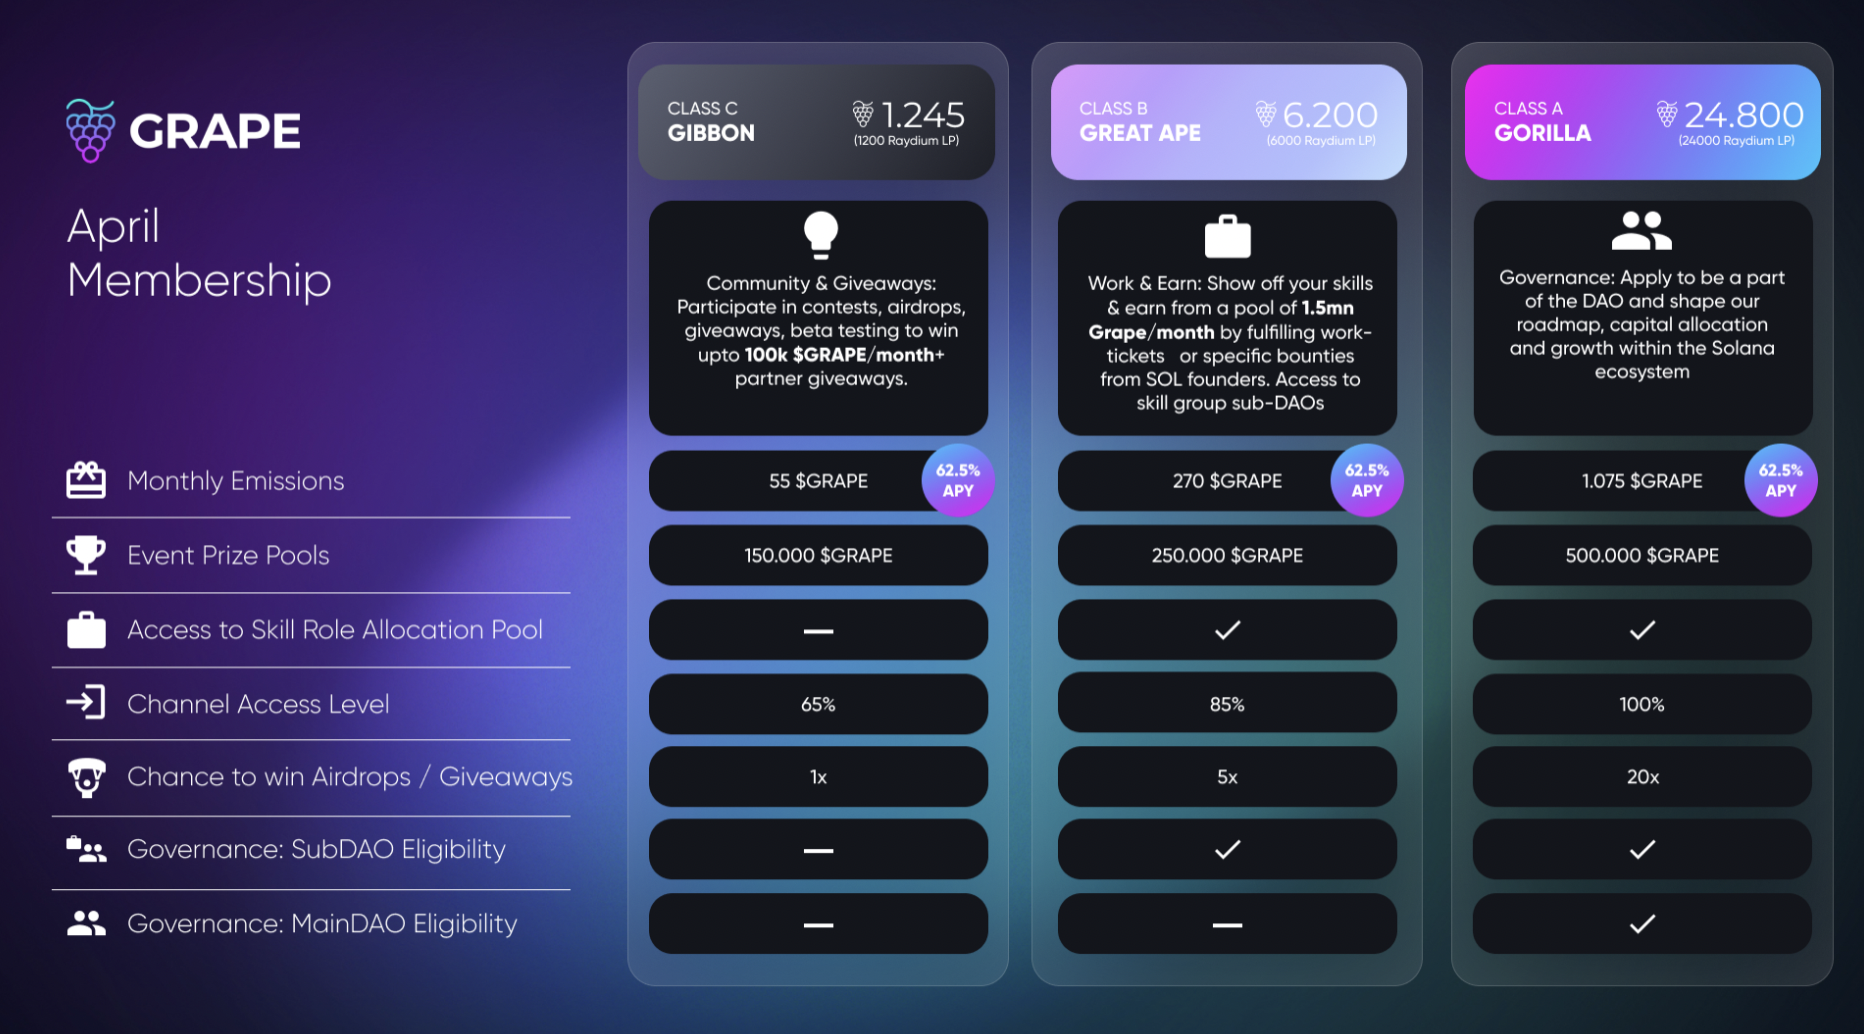
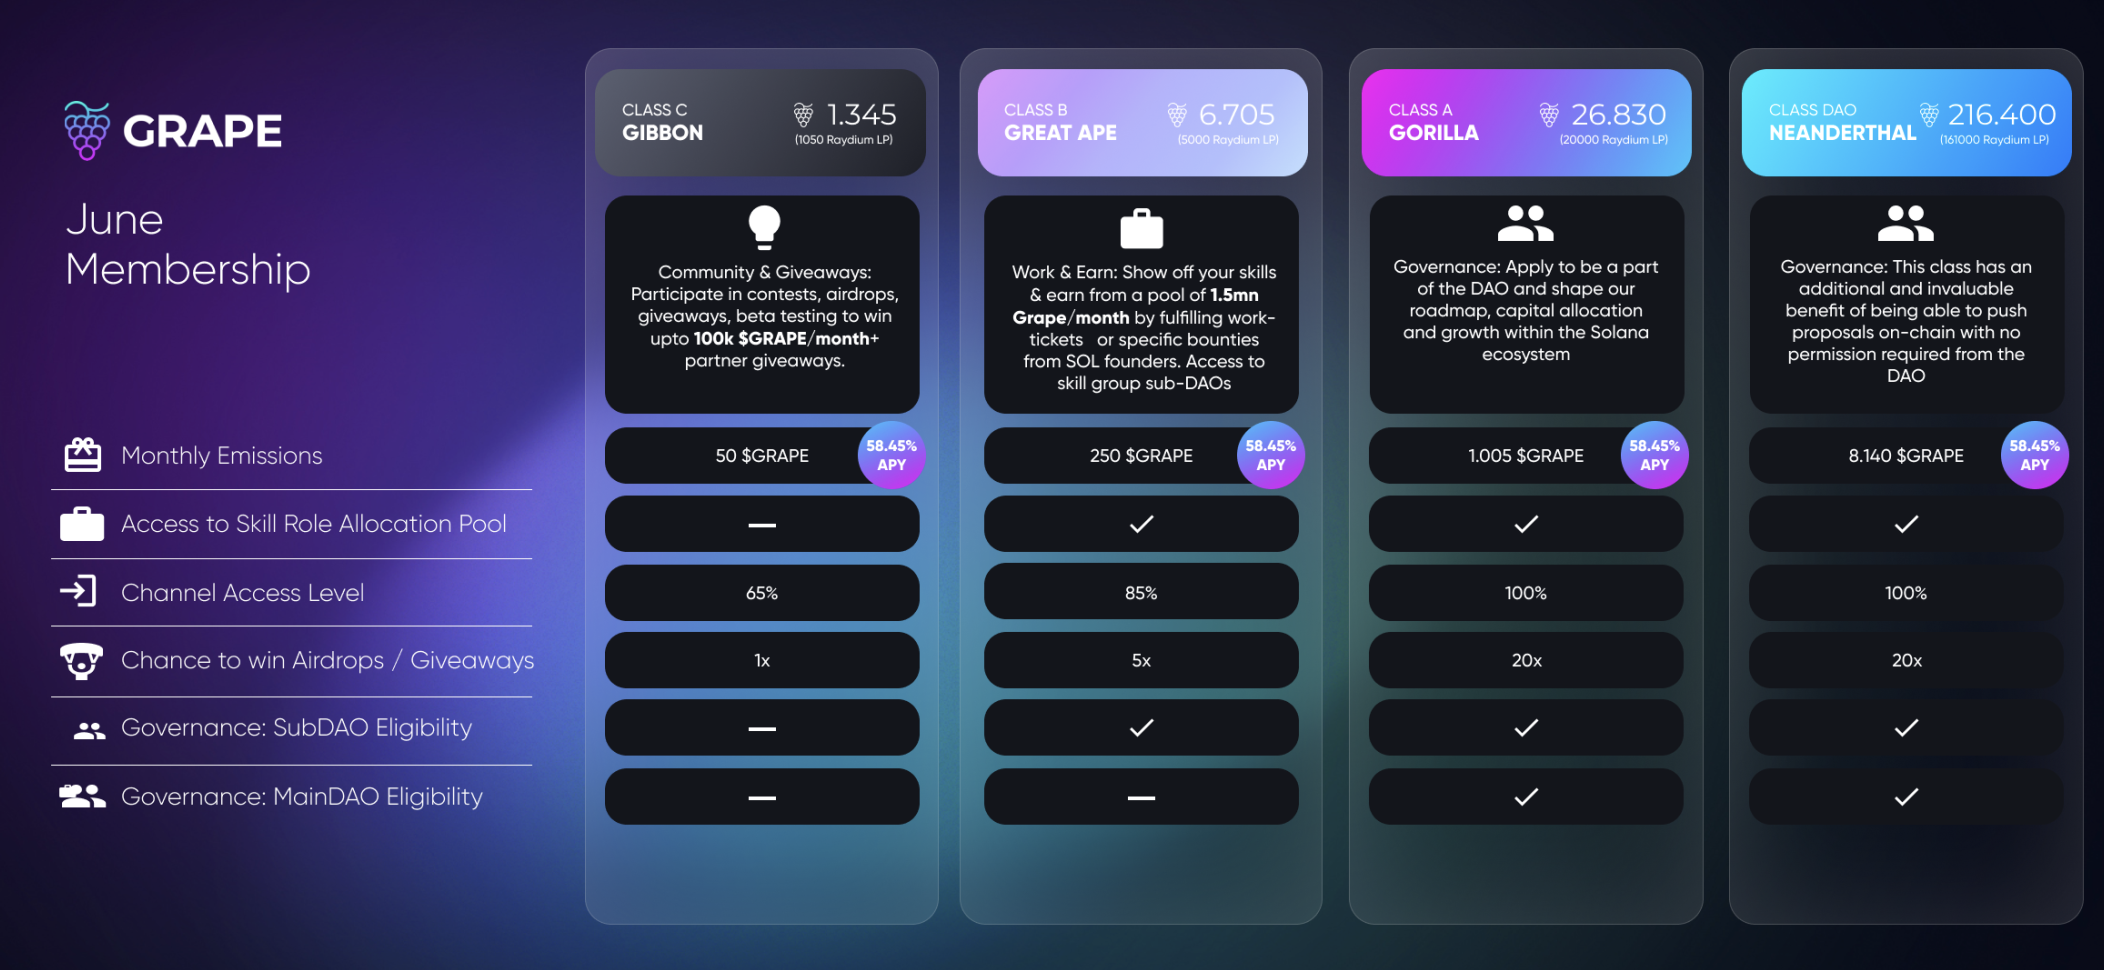
GitBook: [#119] No subject

diff --git a/grape-community/get-involved/membership-classes.md b/grape-community/get-involved/membership-classes.md
@@ -4,7 +4,7 @@ _As explained under  <mark style="color:purple;">****</mark>_ [_<mark style="col
 
 ### **Class C - Gibbon**
 
-_1,245 $GRAPE or 1,100 Raydium LP Tokens_
+_1,345 $GRAPE or 1,050 Raydium LP Tokens_
 
 * Access to priority channels such as DAO, Solana NFTS, and much more&#x20;
 * Chatting in Grape Community Channels&#x20;
@@ -20,7 +20,7 @@ Membership requirements and emissions have been updated (see values above or in 
 
 ### **Class B - Great Ape**
 
-_6,200 $GRAPE or 5,500 LP Tokens_
+_6,705 $GRAPE or 5,000 LP Tokens_
 
 * Access to contests and events! 'Higher contest and events prize payouts of up to 250,000 every month! Class B members' price pools are 1/2 of Class A members' prize pools.
 * Access to AMAs and Q\&A chat&#x20;
@@ -37,7 +37,7 @@ Membership requirements and emissions have been updated (see values above or in 
 
 ### **Class A - Gorilla**
 
-_24,800 $GRAPE or 21,000 LP Tokens_
+_26,830 $GRAPE or 20,000 LP Tokens_
 
 * Application to the DAO! The DAO decides everything around the GRAPE emissions, partnerships, and incubator applications. This is the highest level of involvement in the Solana ecosystem&#x20;
 * Get on the stage! Access to AMAs and join the conversation during Q\&A&#x20;

diff --git a/grape-community/get-involved/README.md b/grape-community/get-involved/README.md
@@ -18,7 +18,7 @@ Grape Membership: A way to get entertained, learn, and network **Crypto-Style**!
 * Contests and events with $GRAPE prizes.
 * Guaranteed monthly emissions based on your Class.
 
-![These numbers reflect the necessary amount of $GRAPE to keep your membership next month since the first payout happens only after a full month of membership.](<../../.gitbook/assets/image (3).png>)
+![These numbers reflect the necessary amount of $GRAPE to keep your membership next month since the first payout happens only after a full month of membership.](<../../.gitbook/assets/image (5).png>)
 
 Based on the current emission schedule, the inflation expected in 2022 from Community Emissions is the following:
 

diff --git a/grape-agency-services/community-services.md b/grape-agency-services/community-services.md
@@ -1,6 +1,6 @@
 # Community Services
 
-![](<../.gitbook/assets/image (5) (1).png>)
+![](<../.gitbook/assets/image (5) (1) (1).png>)
 
 We are proud to be the center of excellence in the Solana ecosystem. We are even prouder of our community’s inclusivity, diversity, and ethos!
 

diff --git a/quick-start-and-faq/README.md b/quick-start-and-faq/README.md
@@ -135,4 +135,4 @@ Please be aware of scammers. If you come across such a group, understand it is c
 
 Sure, there are grape things ahead!
 
-![](<../.gitbook/assets/image (5).png>)
+![](<../.gitbook/assets/image (5) (1).png>)
